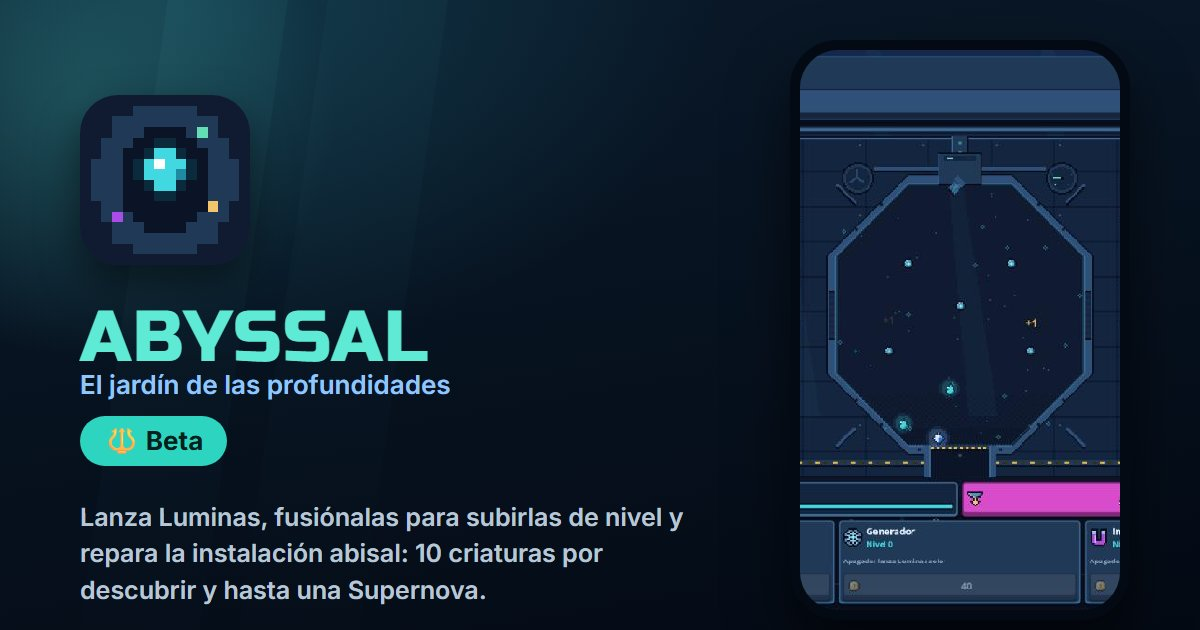
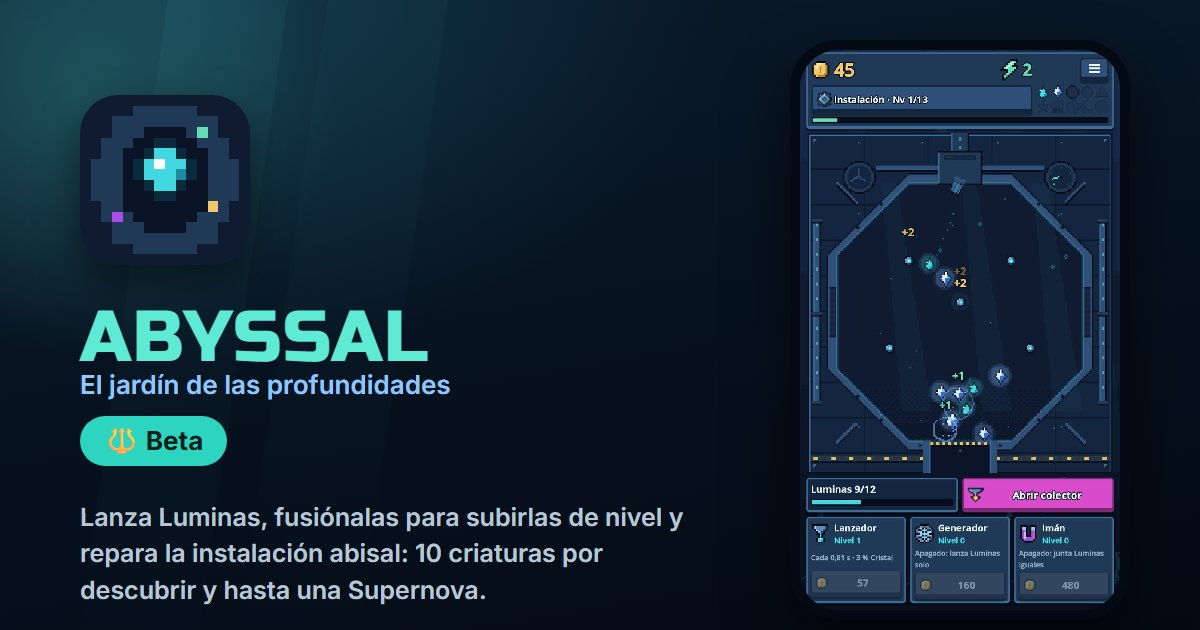
ABYSSAL con capturas oficiales y nueva app: Pilates en casa
- ABYSSAL: sustituidas mis capturas improvisadas por las oficiales de la ficha de Google Play (inicio, lanzar, fusionar, instalación y supernova)
- Nuevo proyecto: Pilates en casa, app de ejercicio con Lila, 35 ejercicios guiados, en fase de desarrollo (próximamente), con su política de privacidad

Changed region(s): [[0.6475, 0.3619, 0.9558, 0.9651], [0.6475, 0.0603, 0.9558, 0.3016], [0.74, 0.3619, 0.8325, 0.4825]]

diff --git a/privacidad/pilates-en-casa.html b/privacidad/pilates-en-casa.html
@@ -1,0 +1,78 @@
+<!doctype html>
+<html lang="es">
+<head>
+  <meta charset="utf-8">
+  <meta name="viewport" content="width=device-width, initial-scale=1">
+  <title>Pilates en casa · Política de privacidad / Privacy policy</title>
+  <link rel="icon" href="../img/favicon.svg" type="image/svg+xml">
+  <link rel="stylesheet" href="../css/privacy.css">
+</head>
+<body>
+<header>
+  <div class="in">
+    <a class="back" href="../index.html">← <span data-site="developer">Valdepony Games</span></a>
+    <h1>Pilates en casa · Política de privacidad</h1>
+    <p class="date">Última actualización · Last updated: 26/11/2026</p>
+    <nav class="lang"><a href="#es">Español</a><a href="#en">English</a></nav>
+  </div>
+</header>
+<main>
+
+<section id="es" lang="es">
+  <h2>Política de privacidad</h2>
+  <p>Pilates en casa es una app de ejercicio creada por <strong data-site="developer">Valdepony Games</strong>. Esta página explica qué pasa con tu información cuando la usas.</p>
+
+  <h3>Qué datos recogemos</h3>
+  <p><strong>Ninguno.</strong> La app no tiene cuentas de usuario, no usa publicidad ni herramientas de análisis, y no envía información a ningún servidor.</p>
+
+  <h3>Dónde se guarda tu información</h3>
+  <p>Tus rutinas y ejercicios propios, tu progreso (series registradas) y tus ajustes (tema, idioma y volumen) se guardan <strong>solo en tu dispositivo</strong>. Nadie más tiene acceso a ellos, tampoco quien ha creado la app. Si desinstalas la app, se borran.</p>
+
+  <h3>Voz y sonido</h3>
+  <p>La voz de Lila y los sonidos de la app se generan en tu propio móvil: no se graba ni se envía tu voz ni ningún audio a ningún sitio.</p>
+
+  <h3>Permisos</h3>
+  <p>La app no pide permisos especiales del dispositivo.</p>
+
+  <h3>Menores</h3>
+  <p>La app no recoge datos de nadie, tampoco de menores.</p>
+
+  <h3>Cambios</h3>
+  <p>Si esta política cambia, se publicará aquí con una nueva fecha.</p>
+
+  <h3>Contacto</h3>
+  <p><a data-site="email" href="mailto:mariodeveloper92@gmail.com">mariodeveloper92@gmail.com</a></p>
+</section>
+
+<section id="en" lang="en">
+  <h2>Privacy policy</h2>
+  <p>Pilates en casa is an exercise app made by <strong data-site="developer">Valdepony Games</strong>. This page explains what happens to your information when you use it.</p>
+
+  <h3>What data we collect</h3>
+  <p><strong>None.</strong> The app has no user accounts, has no ads or analytics, and does not send information to any server.</p>
+
+  <h3>Where your information is stored</h3>
+  <p>Your own routines and exercises, your progress (logged sets) and your settings (theme, language and volume) are stored <strong>only on your device</strong>. Nobody else can access them, not even the app's developer. If you uninstall the app, they are deleted.</p>
+
+  <h3>Voice and sound</h3>
+  <p>Lila's voice and the app's sounds are generated on your own phone: your voice or any audio is never recorded or sent anywhere.</p>
+
+  <h3>Permissions</h3>
+  <p>The app does not request any special device permissions.</p>
+
+  <h3>Children</h3>
+  <p>The app does not collect data from anyone, including children.</p>
+
+  <h3>Changes</h3>
+  <p>If this policy changes, it will be published here with a new date.</p>
+
+  <h3>Contact</h3>
+  <p><a data-site="email" href="mailto:mariodeveloper92@gmail.com">mariodeveloper92@gmail.com</a></p>
+</section>
+
+</main>
+<footer>© <span data-site="developer">Valdepony Games</span></footer>
+<script src="../js/config.js"></script>
+<script src="../js/privacy.js"></script>
+</body>
+</html>

diff --git a/js/config.js b/js/config.js
@@ -205,14 +205,34 @@ const SITE = {
       playIcon: "🔱",
       screenshots: [
         ["captura-01.jpg", "Pantalla de inicio, con las 10 criaturas por descubrir"],
-        ["captura-02.jpg", "La cámara abisal: lanza Luminas y fusiona las iguales"],
-        ["captura-03.jpg", "Instalación: repara secciones con la energía de las fusiones"]
+        ["captura-02.jpg", "Lanza Luminas y mira cómo rebotan por la cámara"],
+        ["captura-03.jpg", "Dos Luminas iguales se fusionan en una del nivel siguiente"],
+        ["captura-04.jpg", "Instalación: repara secciones con la energía de las fusiones"],
+        ["captura-05.jpg", "¡Provoca una Supernova!"]
       ],
       languages: ["Castellano", "English", "Français"],
       packageId: "",
       published: false,
       status: "En fase beta",
       privacy: ""
+    },
+    {
+      id: "pilates-en-casa",
+      name: "Pilates en casa",
+      type: "App de ejercicio",
+      description:
+        "Tu tabla de pilates, siempre contigo: 35 ejercicios guiados por Lila, con tabla o en esterilla, " +
+        "rutinas con cuenta atrás, pitidos y voz, música relajante y tu progreso. Crea tus propios ejercicios y rutinas.",
+      folder: "img/proyectos/pilates-en-casa/",
+      icon: "icono.png",
+      cover: "portada.jpg",
+      color: "#4a2d78",
+      screenshots: [],
+      languages: ["Castellano"],
+      packageId: "com.valdepony.pilatesencasa",
+      published: false,
+      status: "Próximamente",
+      privacy: "privacidad/pilates-en-casa.html"
     }
   ]
 };
